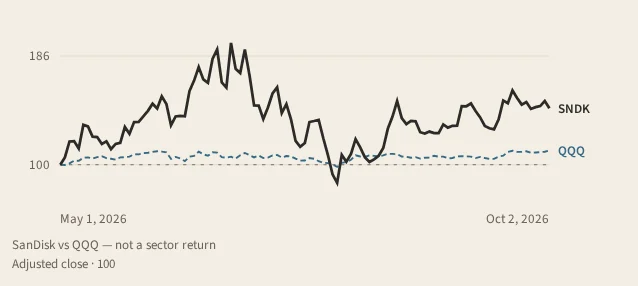
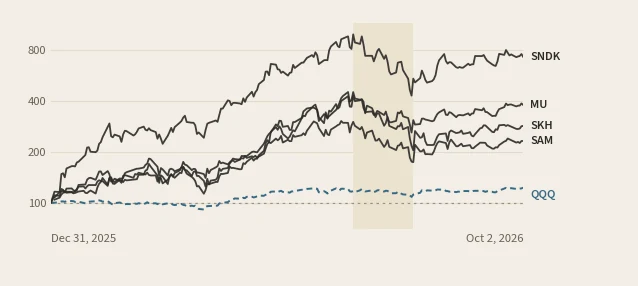
feat(market-stories): cover the memory sector, not SanDisk alone
One flash maker cannot stand for memory. The story now reads SK Hynix,
Samsung, Micron and SanDisk together:

- New four-panel chart, each company vs QQQ, rebased to 100 at the
  Dec 31, 2025 close on a shared log scale (Yahoo adjusted close; Korean
  shares in won), with the late-June to July 30 sell-off shaded. New
  thumbnail to match.
- Essay: the shared rally and July drawdown (39–57%) with prices still
  rising; then three arguments: HBM share is moving from SK Hynix to
  Samsung; scarcity is broad because HBM takes 3x the wafer capacity;
  contracts and buybacks reshape the cycle while new supply (Dalian,
  Intel talks, Micron clean rooms, CXMT, YMTC) lands unevenly by 2028.
- Title, tickers and window updated; slug kept so the URL is stable.

diff --git a/CHANGELOG.md b/CHANGELOG.md
@@ -27,6 +27,10 @@
 - Publish "Why My El Niño Research Mostly Says Don't Trade" in the same essay format, linked
   from the El Niño and Commodity Futures case. Every figure comes from the project's
   pre-registered reports; the yield-lag point cites Kamil et al. (Heliyon, 2024).
+- The memory story now covers the sector, not SanDisk alone: SK Hynix, Samsung, Micron and
+  SanDisk, with a new four-panel chart (rebased at Dec 31, 2025, shared log scale) and
+  arguments on HBM share, broad scarcity from HBM's capacity needs, and contracts versus
+  new supply.
 
 ### Links
 
